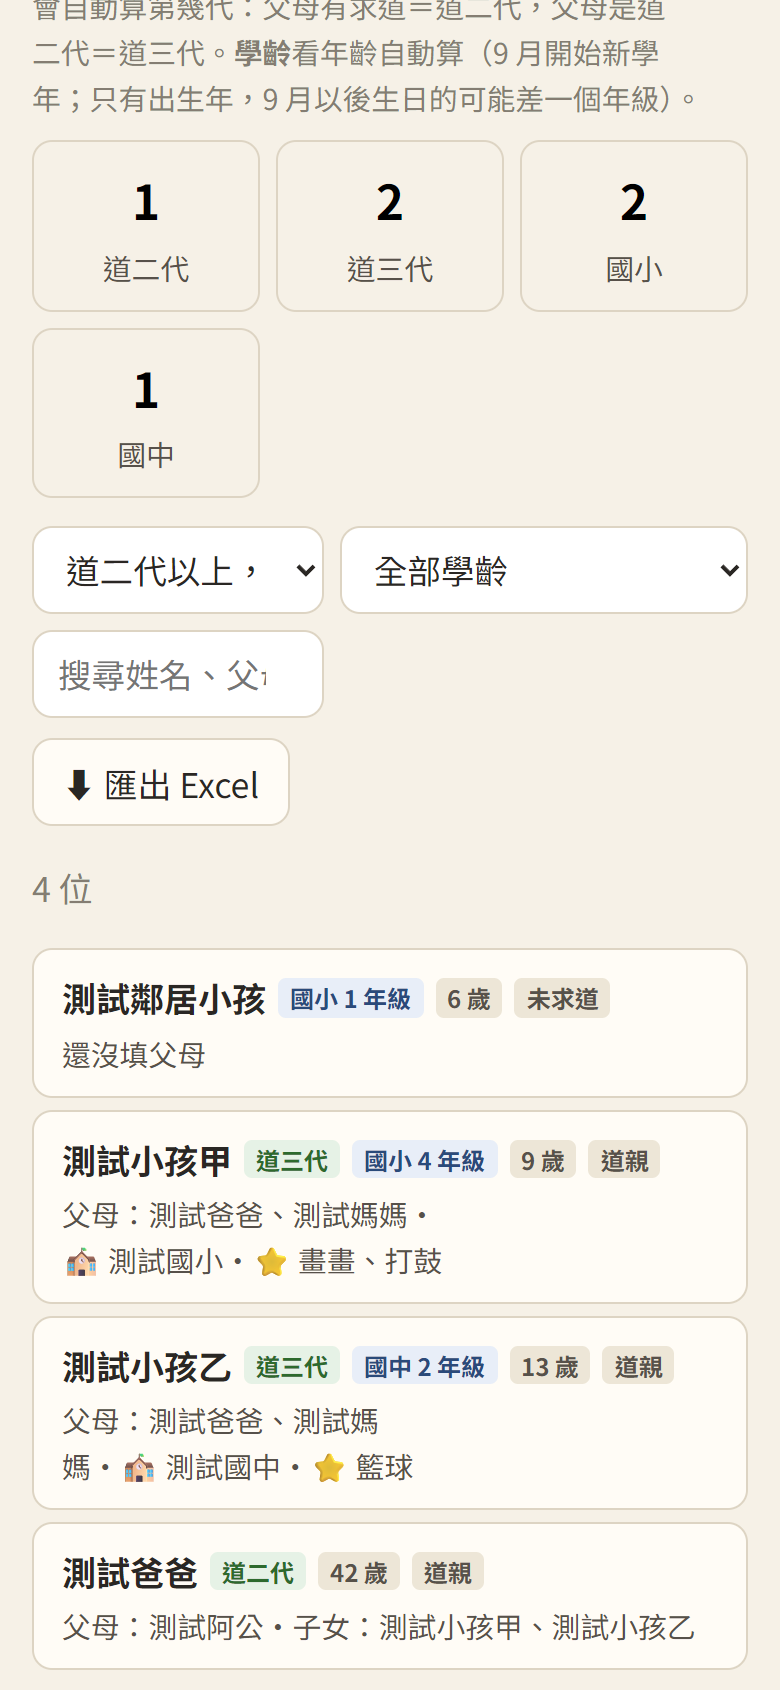
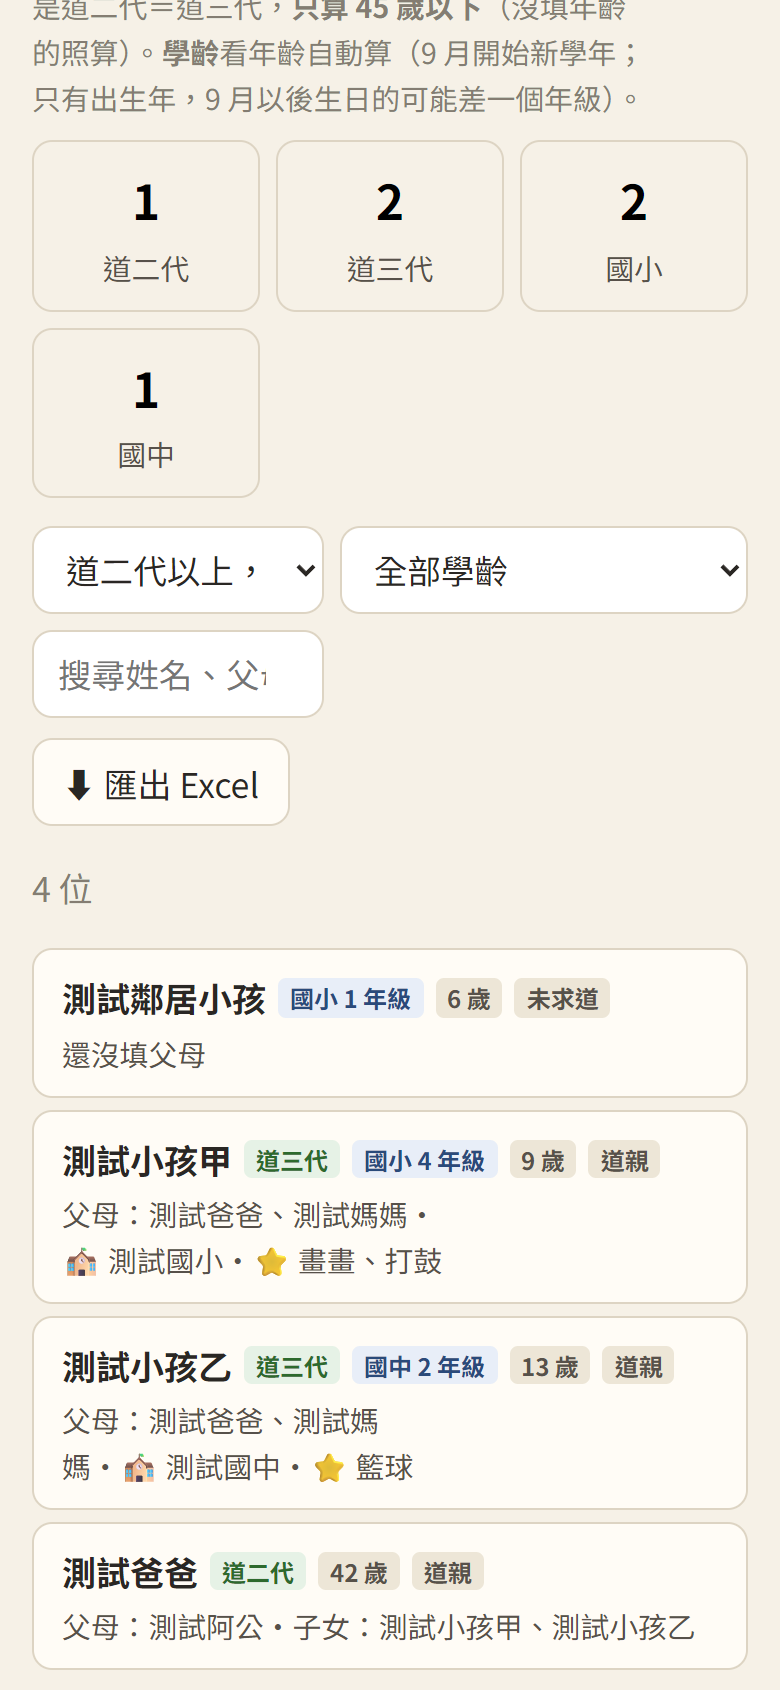
道二代、道三代只算 45 歲以下（沒填年齡照算）

Changed region(s): [[0.0308, 0.0, 0.8615, 0.0923]]

diff --git a/index.html b/index.html
@@ -23,7 +23,7 @@
   <link rel="preconnect" href="https://fonts.googleapis.com">
   <link rel="preconnect" href="https://fonts.gstatic.com" crossorigin>
   <link href="https://fonts.googleapis.com/css2?family=Noto+Sans+TC:wght@400;500;700&family=Noto+Serif+TC:wght@600;700&display=swap" rel="stylesheet">
-  <link rel="stylesheet" href="css/app.css?v=20261122f">
+  <link rel="stylesheet" href="css/app.css?v=20261122g">
   <script>try { var t = localStorage.getItem('duty-calendar:text-size'); if (t === 'l' || t === 'xl') document.documentElement.classList.add('text-' + t); } catch (e) {}</script>
 </head>
 <body class="splash-on">
@@ -118,66 +118,66 @@
   <script src="https://cdn.jsdelivr.net/npm/fullcalendar@6.1.21/index.global.min.js"></script>
   <script src="https://cdn.jsdelivr.net/npm/@fullcalendar/core@6.1.21/locales/zh-tw.global.min.js"></script>
   <!-- 改了 js、css 後把 ?v= 的日期換新，手機才不會用到舊的檔案（GitHub Pages 會快取 10 分鐘） -->
-  <script src="js/site.js?v=20261122f"></script>
-  <script src="js/region.js?v=20261122f"></script>
-  <script src="js/config.js?v=20261122f"></script>
-  <script src="js/api.js?v=20261122f"></script>
-  <script src="js/format.js?v=20261122f"></script>
-  <script src="js/member-suggest.js?v=20261122f"></script>
-  <script src="js/member-file.js?v=20261122f"></script>
-  <script src="js/family.js?v=20261122f"></script>
-  <script src="js/lunar-util.js?v=20261122f"></script>
-  <script src="js/date-list.js?v=20261122f"></script>
-  <script src="js/share.js?v=20261122f"></script>
-  <script src="js/addcal.js?v=20261122f"></script>
-  <script src="js/duty-cache.js?v=20261122f"></script>
-  <script src="js/thanks-board.js?v=20261122f"></script>
-  <script src="js/calendar.js?v=20261122f"></script>
-  <script src="js/confirm.js?v=20261122f"></script>
-  <script src="js/reschedule.js?v=20261122f"></script>
-  <script src="js/signup.js?v=20261122f"></script>
-  <script src="js/duty-images.js?v=20261122f"></script>
-  <script src="js/roster-grid.js?v=20261122f"></script>
-  <script src="js/grid-page.js?v=20261122f"></script>
-  <script src="js/grid-image.js?v=20261122f"></script>
-  <script src="js/thanks-image.js?v=20261122f"></script>
-  <script src="js/celebrate.js?v=20261122f"></script>
-  <script src="js/duty.js?v=20261122f"></script>
-  <script src="js/mine.js?v=20261122f"></script>
-  <script src="js/venue-hours.js?v=20261122f"></script>
-  <script src="js/venue.js?v=20261122f"></script>
-  <script src="js/push.js?v=20261122f"></script>
-  <script src="js/admin.js?v=20261122f"></script>
-  <script src="js/admin-pages.js?v=20261122f"></script>
-  <script src="js/draft-editor.js?v=20261122f"></script>
-  <script src="js/group-fair.js?v=20261122f"></script>
-  <script src="js/admin-duties.js?v=20261122f"></script>
-  <script src="js/admin-accounts.js?v=20261122f"></script>
-  <script src="js/admin-site.js?v=20261122f"></script>
-  <script src="js/region-setup.js?v=20261122f"></script>
-  <script src="js/import-parse.js?v=20261122f"></script>
-  <script src="js/admin-import.js?v=20261122f"></script>
-  <script src="js/admin-people.js?v=20261122f"></script>
-  <script src="js/stats-calc.js?v=20261122f"></script>
-  <script src="js/edu-stats.js?v=20261122f"></script>
-  <script src="js/admin-goals.js?v=20261122f"></script>
-  <script src="js/admin-venue.js?v=20261122f"></script>
-  <script src="js/admin-push.js?v=20261122f"></script>
-  <script src="js/tutorial.js?v=20261122f"></script>
-  <script src="js/help.js?v=20261122f"></script>
-  <script src="js/rollcall.js?v=20261122f"></script>
-  <script src="js/stats-export.js?v=20261122f"></script>
-  <script src="js/repair.js?v=20261122f"></script>
-  <script src="js/activity-report.js?v=20261122f"></script>
-  <script src="js/member-stats.js?v=20261122f"></script>
-  <script src="js/admin-stats.js?v=20261122f"></script>
-  <script src="js/admin-report.js?v=20261122f"></script>
-  <script src="js/admin-recent-signups.js?v=20261122f"></script>
-  <script src="js/admin-notice.js?v=20261122f"></script>
-  <script src="js/admin-notify.js?v=20261122f"></script>
-  <script src="js/history-parse.js?v=20261122f"></script>
-  <script src="js/admin-history.js?v=20261122f"></script>
-  <script src="js/easy-mode.js?v=20261122f"></script>
-  <script src="js/app.js?v=20261122f"></script>
+  <script src="js/site.js?v=20261122g"></script>
+  <script src="js/region.js?v=20261122g"></script>
+  <script src="js/config.js?v=20261122g"></script>
+  <script src="js/api.js?v=20261122g"></script>
+  <script src="js/format.js?v=20261122g"></script>
+  <script src="js/member-suggest.js?v=20261122g"></script>
+  <script src="js/member-file.js?v=20261122g"></script>
+  <script src="js/family.js?v=20261122g"></script>
+  <script src="js/lunar-util.js?v=20261122g"></script>
+  <script src="js/date-list.js?v=20261122g"></script>
+  <script src="js/share.js?v=20261122g"></script>
+  <script src="js/addcal.js?v=20261122g"></script>
+  <script src="js/duty-cache.js?v=20261122g"></script>
+  <script src="js/thanks-board.js?v=20261122g"></script>
+  <script src="js/calendar.js?v=20261122g"></script>
+  <script src="js/confirm.js?v=20261122g"></script>
+  <script src="js/reschedule.js?v=20261122g"></script>
+  <script src="js/signup.js?v=20261122g"></script>
+  <script src="js/duty-images.js?v=20261122g"></script>
+  <script src="js/roster-grid.js?v=20261122g"></script>
+  <script src="js/grid-page.js?v=20261122g"></script>
+  <script src="js/grid-image.js?v=20261122g"></script>
+  <script src="js/thanks-image.js?v=20261122g"></script>
+  <script src="js/celebrate.js?v=20261122g"></script>
+  <script src="js/duty.js?v=20261122g"></script>
+  <script src="js/mine.js?v=20261122g"></script>
+  <script src="js/venue-hours.js?v=20261122g"></script>
+  <script src="js/venue.js?v=20261122g"></script>
+  <script src="js/push.js?v=20261122g"></script>
+  <script src="js/admin.js?v=20261122g"></script>
+  <script src="js/admin-pages.js?v=20261122g"></script>
+  <script src="js/draft-editor.js?v=20261122g"></script>
+  <script src="js/group-fair.js?v=20261122g"></script>
+  <script src="js/admin-duties.js?v=20261122g"></script>
+  <script src="js/admin-accounts.js?v=20261122g"></script>
+  <script src="js/admin-site.js?v=20261122g"></script>
+  <script src="js/region-setup.js?v=20261122g"></script>
+  <script src="js/import-parse.js?v=20261122g"></script>
+  <script src="js/admin-import.js?v=20261122g"></script>
+  <script src="js/admin-people.js?v=20261122g"></script>
+  <script src="js/stats-calc.js?v=20261122g"></script>
+  <script src="js/edu-stats.js?v=20261122g"></script>
+  <script src="js/admin-goals.js?v=20261122g"></script>
+  <script src="js/admin-venue.js?v=20261122g"></script>
+  <script src="js/admin-push.js?v=20261122g"></script>
+  <script src="js/tutorial.js?v=20261122g"></script>
+  <script src="js/help.js?v=20261122g"></script>
+  <script src="js/rollcall.js?v=20261122g"></script>
+  <script src="js/stats-export.js?v=20261122g"></script>
+  <script src="js/repair.js?v=20261122g"></script>
+  <script src="js/activity-report.js?v=20261122g"></script>
+  <script src="js/member-stats.js?v=20261122g"></script>
+  <script src="js/admin-stats.js?v=20261122g"></script>
+  <script src="js/admin-report.js?v=20261122g"></script>
+  <script src="js/admin-recent-signups.js?v=20261122g"></script>
+  <script src="js/admin-notice.js?v=20261122g"></script>
+  <script src="js/admin-notify.js?v=20261122g"></script>
+  <script src="js/history-parse.js?v=20261122g"></script>
+  <script src="js/admin-history.js?v=20261122g"></script>
+  <script src="js/easy-mode.js?v=20261122g"></script>
+  <script src="js/app.js?v=20261122g"></script>
 </body>
 </html>

diff --git a/js/admin-people.js b/js/admin-people.js
@@ -837,7 +837,7 @@
   function familyAutoText(m, ageText, parentsText, idInput) {
     const today = new Date().toISOString().slice(0, 10);
     const by = /^\d{1,3}$/.test(ageText) ? Number(today.slice(0, 4)) - Number(ageText) : (m && m.birthYear) || '';
-    const me = Object.assign({}, m || { name: '' }, { parents: String(parentsText || '').split(/[、，,\s]+/).filter(Boolean), identity: idInput ? idInput.value : (m && m.identity) });
+    const me = Object.assign({}, m || { name: '' }, { age: /^\d{1,3}$/.test(ageText) ? Number(ageText) : '', parents: String(parentsText || '').split(/[、，,\s]+/).filter(Boolean), identity: idInput ? idInput.value : (m && m.identity) });
     const list = memberList.filter((x) => !m || x.row !== m.row).concat([me]);
     const f = Family.generations(list).get(me);
     const st = Family.schoolStage(by, today);
@@ -866,15 +866,15 @@
     const all = data.members.filter((m) => m.active && !m.pending);
     const fam = Family.generations(data.members);
     const rows = all.map((m) => ({ m, f: fam.get(m), st: Family.schoolStage(m.birthYear, today) }));
-    const kids = rows.filter((r) => r.f.gen >= 2 || r.st);
+    const kids = rows.filter((r) => r.f.shownGen >= 2 || r.st);
     const count = (fn) => rows.filter(fn).length;
-    const gens = [2, 3, 4].map((g) => [g, count((r) => (g === 4 ? r.f.gen >= 4 : r.f.gen === g))]).filter(([g, n]) => n || g < 4);
+    const gens = [2, 3, 4].map((g) => [g, count((r) => (g === 4 ? r.f.shownGen >= 4 : r.f.shownGen === g))]).filter(([g, n]) => n || g < 4);
     const stages = Family.STAGES.map((s) => [s, count((r) => r.st && r.st.stage === s)]);
     const canEdit = canEditPeople();
     body.innerHTML = `
       ${AdminPage.staleNote(stale)}
       ${flash}
-      <p class="hint">成員資料填了<strong>父母</strong>（成員名單上的爸爸、媽媽）就會自動算第幾代：父母有求道＝道二代，父母是道二代＝道三代。<strong>學齡</strong>看年齡自動算（9 月開始新學年；只有出生年，9 月以後生日的可能差一個年級）。</p>
+      <p class="hint">成員資料填了<strong>父母</strong>（成員名單上的爸爸、媽媽）就會自動算第幾代：父母有求道＝道二代，父母是道二代＝道三代，<strong>只算 45 歲以下</strong>（沒填年齡的照算）。<strong>學齡</strong>看年齡自動算（9 月開始新學年；只有出生年，9 月以後生日的可能差一個年級）。</p>
       <div class="youth-sum">
         ${gens.map(([g, n]) => `<button type="button" class="youth-stat${youthState.gen === String(g) ? ' is-active' : ''}" data-gen="${g}"><strong>${n}</strong><span>${g === 4 ? '道四代以上' : g === 2 ? '道二代' : '道三代'}</span></button>`).join('')}
         ${stages.filter(([, n]) => n).map(([s, n]) => `<button type="button" class="youth-stat${youthState.stage === s ? ' is-active' : ''}" data-stage="${s}"><strong>${n}</strong><span>${s}</span></button>`).join('')}
@@ -899,15 +899,15 @@
       const order = { '學齡前': 0, '幼兒園': 1, '國小': 2, '國中': 3, '高中': 4, '大學': 5 };
       return rows.filter((r) => {
         const g = youthState.gen;
-        if (g === 'kids' && !(r.f.gen >= 2 || r.st)) return false;
-        if (g === '2' && r.f.gen !== 2) return false;
-        if (g === '3' && r.f.gen !== 3) return false;
-        if (g === '4' && r.f.gen < 4) return false;
+        if (g === 'kids' && !(r.f.shownGen >= 2 || r.st)) return false;
+        if (g === '2' && r.f.shownGen !== 2) return false;
+        if (g === '3' && r.f.shownGen !== 3) return false;
+        if (g === '4' && r.f.shownGen < 4) return false;
         if (g === 'noparent' && !(r.st && !r.f.parents.length)) return false;
         if (youthState.stage === 'adult' ? !!r.st : (youthState.stage && !(r.st && r.st.stage === youthState.stage))) return false;
         const hay = [r.m.name, r.m.temple, r.m.school, r.m.interest].concat(r.f.parents.map((p) => p.name), r.m.aliases || []).join(' ');
         return !q || hay.indexOf(q) !== -1;
-      }).sort((a, b) => (a.st ? order[a.st.stage] * 10 + a.st.grade : 99) - (b.st ? order[b.st.stage] * 10 + b.st.grade : 99) || b.f.gen - a.f.gen || Fmt.byStroke(a.m.name, b.m.name));
+      }).sort((a, b) => (a.st ? order[a.st.stage] * 10 + a.st.grade : 99) - (b.st ? order[b.st.stage] * 10 + b.st.grade : 99) || b.f.shownGen - a.f.shownGen || Fmt.byStroke(a.m.name, b.m.name));
     };
     const box = body.querySelector('[data-yrows]');
     function draw() {

diff --git a/js/family.js b/js/family.js
@@ -6,6 +6,7 @@
   const IN_DAO = ['道親', '壇辦', '點傳師']; // 有求道的才算「道」的一代
   const GEN_LABEL = { 2: '道二代', 3: '道三代', 4: '道四代', 5: '道五代' };
   const STAGES = ['學齡前', '幼兒園', '國小', '國中', '高中', '大學'];
+  const MAX_AGE = 45; // 道二代、道三代只算 45 歲（含）以下；沒填年齡的照算（2026/11/22）
 
   /**
    * 學齡：依出生年和今天（台灣學年 9 月開始）推算。只有出生年，9 月以後出生的可能差一個年級。
@@ -59,11 +60,18 @@
       visiting.delete(m);
       return x.gen;
     };
-    members.forEach((m) => { const x = info.get(m); genOf(m); x.label = GEN_LABEL[x.gen] || (x.gen > 5 ? `道${x.gen}代` : ''); });
+    // gen＝真正第幾代（算子女用）；超過 45 歲的不標、不算進統計：label 空白、shownGen＝1
+    members.forEach((m) => {
+      const x = info.get(m);
+      genOf(m);
+      const tooOld = m.age !== '' && m.age !== undefined && m.age !== null && Number(m.age) > MAX_AGE;
+      x.label = tooOld ? '' : GEN_LABEL[x.gen] || (x.gen > 5 ? `道${x.gen}代` : '');
+      x.shownGen = x.label ? x.gen : 1;
+    });
     return info; // 用成員物件查（同名不同佛堂才不會混在一起）
   }
 
-  const api = { schoolStage, generations, STAGES, IN_DAO };
+  const api = { schoolStage, generations, STAGES, IN_DAO, MAX_AGE };
   if (typeof module !== 'undefined' && module.exports) module.exports = api;
   else root.Family = api;
 })(typeof window !== 'undefined' ? window : globalThis);

diff --git a/docs/spec.md b/docs/spec.md
@@ -327,7 +327,7 @@
 - **大張職司表：取消、名字提示、日期固定（2026/10/26）**：點名字的小視窗多「取消這筆報名」（明天以後的；管理者登入時都可以），先跳確認（名字、日期、項目）；點空格報名的名字欄打字就從成員名單提示名字，點一下帶入名字和身分；表格放在自己的框裡（最高一個畫面高），上下捲時日期、人數兩列固定在上面，左邊項目欄照舊固定。
 - **大張職司表的列數（2026/10/26）**：了愿項目有填「最多」就顯示那麼多列（報名超過最多時照實際人數）；沒填最多的照報名最多的那天，明天以後有一天已經沒空格就多一列。管理者改「最多」就能增減列數。
 - **管理者在大張職司表點空格加人（2026/11/9）**：登入後台（非唯讀）時，大張職司表的每個空格「—」都可以點（含當天與過去），小視窗標題寫「幫人報名這一格」／「補登這一格」，送出走 adminAddAttendee（同後台名單「＋ 幫人報名」／「補登」：不受報名截止日限制，名額與同日重複只提醒；類別帳號只能加自己類別的勤務）；名字欄不帶管理者自己的名字，也不記到這支手機。家人們點空格的規則不變（明天以後、截止前）。
-- **道二代、道三代與學齡（2026/11/22）**：「成員」分頁最後新增「父母」（成員名單上的爸爸、媽媽，姓名「、」分開，最多 4 位，不能填自己）、「學校」（50 字）、「興趣」（200 字）。成員編輯視窗多「👨👩👧 家人」區：父母欄連動成員名單（好幾位），下面即時顯示自動算的學齡、第幾代、子女，父母不在名單上會提醒。**第幾代**（js/family.js Family.generations，前端算、不存）：父母（名單上、身分是道親／壇辦／點傳師）最大代數＋1，沒有＝第 1 代；2＝道二代、3＝道三代、4＝道四代；父母填成環不會當掉；同名不同佛堂分開算。**學齡**（Family.schoolStage）：台灣學年 9 月開始，學年開始時滿 6 歲＝國小一年級，依出生年推算（只有出生年，9 月以後生日的可能差一年）：學齡前（3 歲以下）、幼兒園、國小 1～6、國中 1～3、高中 1～3、大學 1～4，之後不顯示。成員卡片多「道二代」「國小 3 年級」標籤。👥 人員多一頁「👨👩👧 道二代」（#/admin/youth，所有帳號看得到；總管理者、道務、教育能改）：上面人數卡（道二代、道三代、道四代以上、各學齡，點了篩選），篩選（道二代以上或學齡中／道二代／道三代／道四代以上／學齡中還沒填父母／全部；學齡；搜尋姓名、父母、佛堂、學校、興趣），名單依學齡排（父母、子女、學校、興趣），點一位用 adminSetFamily 只改父母、年齡、學校、興趣（父母要在名單上），「⬇ 匯出 Excel」（姓名、佛堂、第幾代、學齡、年齡、身分、父母、子女、學校、興趣）。成員改名、合併成同一人時，別人「父母」欄裡的名字一起改（renameParentRefs_）。匯入成員資料也認得父母（家長、父親、母親，可以兩欄）、學校（就讀）、興趣（專長、才藝）欄；「父親姓名」不會被當成姓名，電話、地址欄不對到任何欄位。
+- **道二代、道三代與學齡（2026/11/22）**：「成員」分頁最後新增「父母」（成員名單上的爸爸、媽媽，姓名「、」分開，最多 4 位，不能填自己）、「學校」（50 字）、「興趣」（200 字）。成員編輯視窗多「👨👩👧 家人」區：父母欄連動成員名單（好幾位），下面即時顯示自動算的學齡、第幾代、子女，父母不在名單上會提醒。**第幾代**（js/family.js Family.generations，前端算、不存）：父母（名單上、身分是道親／壇辦／點傳師）最大代數＋1，沒有＝第 1 代；2＝道二代、3＝道三代、4＝道四代；**只標 45 歲（含）以下**（Family.MAX_AGE；沒填年齡的照算），超過的不標籤、不算進道二代頁的人數與篩選（shownGen＝1），但真正的代數照算給子女用；父母填成環不會當掉；同名不同佛堂分開算。**學齡**（Family.schoolStage）：台灣學年 9 月開始，學年開始時滿 6 歲＝國小一年級，依出生年推算（只有出生年，9 月以後生日的可能差一年）：學齡前（3 歲以下）、幼兒園、國小 1～6、國中 1～3、高中 1～3、大學 1～4，之後不顯示。成員卡片多「道二代」「國小 3 年級」標籤。👥 人員多一頁「👨👩👧 道二代」（#/admin/youth，所有帳號看得到；總管理者、道務、教育能改）：上面人數卡（道二代、道三代、道四代以上、各學齡，點了篩選），篩選（道二代以上或學齡中／道二代／道三代／道四代以上／學齡中還沒填父母／全部；學齡；搜尋姓名、父母、佛堂、學校、興趣），名單依學齡排（父母、子女、學校、興趣），點一位用 adminSetFamily 只改父母、年齡、學校、興趣（父母要在名單上），「⬇ 匯出 Excel」（姓名、佛堂、第幾代、學齡、年齡、身分、父母、子女、學校、興趣）。成員改名、合併成同一人時，別人「父母」欄裡的名字一起改（renameParentRefs_）。匯入成員資料也認得父母（家長、父親、母親，可以兩欄）、學校（就讀）、興趣（專長、才藝）欄；「父親姓名」不會被當成姓名，電話、地址欄不對到任何欄位。
 - **匯入成員資料：Excel／Word／PDF（2026/11/22）**：成員頁「📋 匯入成員資料」可以選檔案（.xlsx .xls .csv .ods、.docx、.pdf，可多個）或貼上表格（從 Excel 複製，tab 分欄）／Claude 整理的 JSON（舊格式照樣可用）。js/member-file.js 在瀏覽器裡讀（不上傳）：Excel 用 SheetJS（cdnjs 0.18.5，每個工作表一份）；Word 用 SheetJS 的 CFB 解 zip 讀 word/document.xml（每個表格一份，表格外的段落用 tab／兩個以上空白切）；PDF 用 pdf.js（cdnjs 3.11.174）取文字，同一高度一列、隔開的分格，有表頭時每格放到最近的表頭欄；文字一律 NFKC（PDF 的部首字⾝⼝⼄換回身口乙）。自動對欄：前 15 列找有「姓名」又最多欄對得上的那列當表頭（姓名／佛堂（所屬、壇）／年齡（歲）／出生（生日、年次）／身分（身份、職稱）／清口（吃素）／國外（地區）），沒有表頭就看內容猜（兩到四個中文字＝姓名、身分字、1～120 的數字＝年齡）。轉換：出生年接受西元、民國（54、54/3/2、054.03.02、民國54年）、日期、Excel 序號；身分：點傳師、壇辦（壇主、講師、辦事員）、未求道（新朋友）、道親（求道）；清口：是／V／✓／O／Y／有；國外：大陸／中國→陸、韓國。名字去掉括號裡的小名和前面的編號，跳過合計列，同名同佛堂只留一筆。畫面每個來源一塊，每個欄位可以改選對應哪一欄；下面列出前 30 位「會補上」什麼、找不到的標紅；找不到時才出現「直接新增成員」。送出仍是 adminImportMembers（只更新有給的欄位）。舊版 .doc、掃描 PDF 會說明讀不到。
 - **姓名欄一律連動成員名單（2026/11/22）**：凡是要登記人員或打姓名的地方都要接成員名單（之後新做的也一樣）。共用元件 js/member-suggest.js（MemberSuggest.attach(input, { multi, onPick })）：打一兩個字，欄位下面出現成員名單的名字（附別名、佛堂、身分），點了填入；好幾位的欄位只看游標所在那個名字，點了換成完整名字再補「、」（組員欄原本用換行的就補換行）。用公開的 searchMembers（只有姓名、佛堂、身分，不含電話；待確認、停用的不提示），打別名也找得到。接上的欄位：勤務表單的負責師資、講師、帶班、助理帶班；分組的組長或召集人、佐理、組員；報修的姓名。原本就有的：報名、補登／幫人報名、職司表點空格加人、場地借用、活動回報、我的報名。
 - **了愿感謝狀（2026/11/15）**：後台勤務詳細頁（需要報名的勤務都有，公告型沒有；11/16 起不限職司表）有「🏅 了愿感謝狀」：依名單把全部了愿的人畫成一張圖（canvas，js/thanks-image.js）：最上面三位仙佛並排（2026/11/22 起左邊濟公活佛、中間彌勒祖師、右邊觀世音菩薩，首頁感謝欄同樣順序；同報名成功的祝福圖，multiply 融進紙色），標題「感謝狀」、勤務名稱、日期地點、感謝的話，表格一人一列（姓名、職司〔多個用、分開，陪同寫（陪同）〕、天數；天數多的排前面，不寫日期），合計幾位家人、幾人次，最下面中華民國日期（不署名）。先跳預覽，按「📤 傳到 LINE」手機分享／電腦複製圖片（GridImage.shareCanvas）。只算有效報名，出席是「未到」的不列入。
